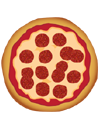
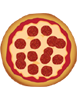
resize pizza2.png again Hight 100px

diff --git a/views/js/main.js b/views/js/main.js
@@ -533,9 +533,9 @@ document.addEventListener('DOMContentLoaded', function() {
   for (var i = 0; i < 15; i++) {
     var elem = document.createElement('img');
     elem.className = 'mover';
-    elem.src = "images/pizza.png";
-    elem.style.height = "100px";
-    elem.style.width = "73.333px";
+    elem.src = "images/pizza2.png";
+    //elem.style.height = "100px";
+    //elem.style.width = "73.333px";
     elem.basicLeft = (i % cols) * s;
     elem.style.top = (Math.floor(i / cols) * s) + 'px';
     document.querySelector("#movingPizzas1").appendChild(elem);
